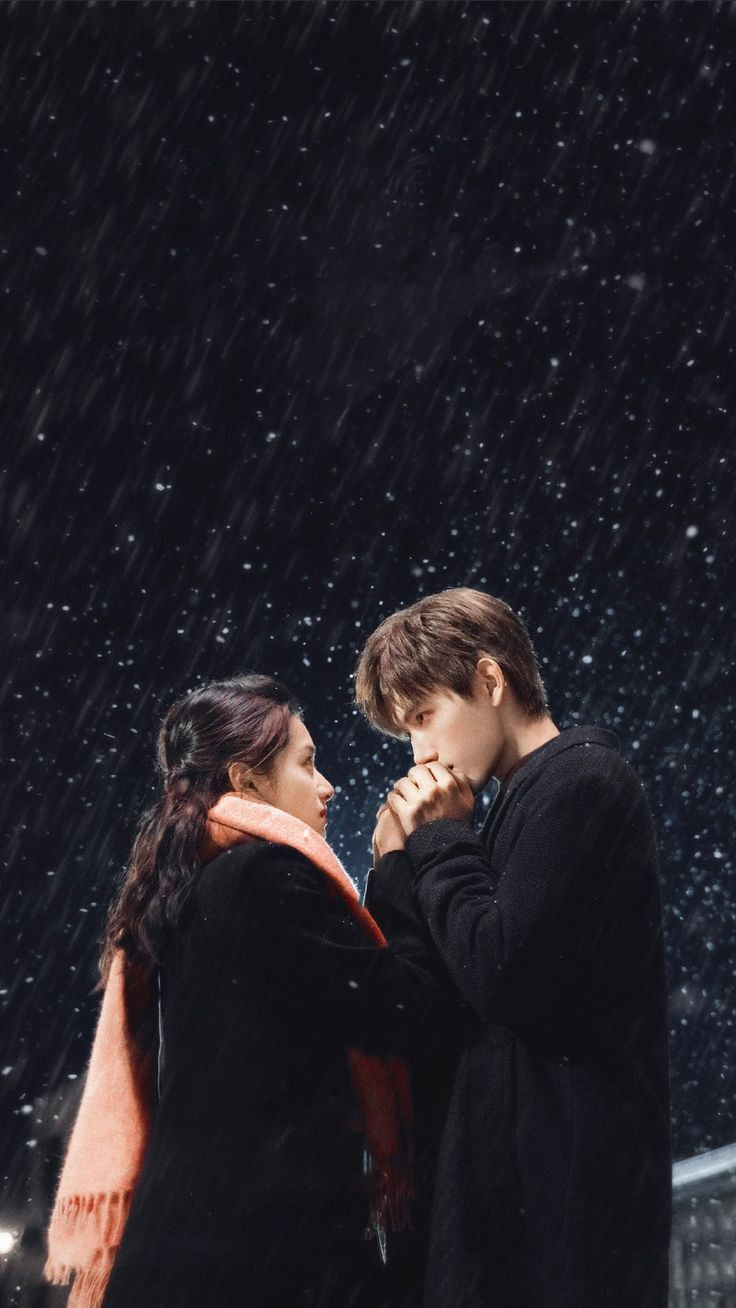
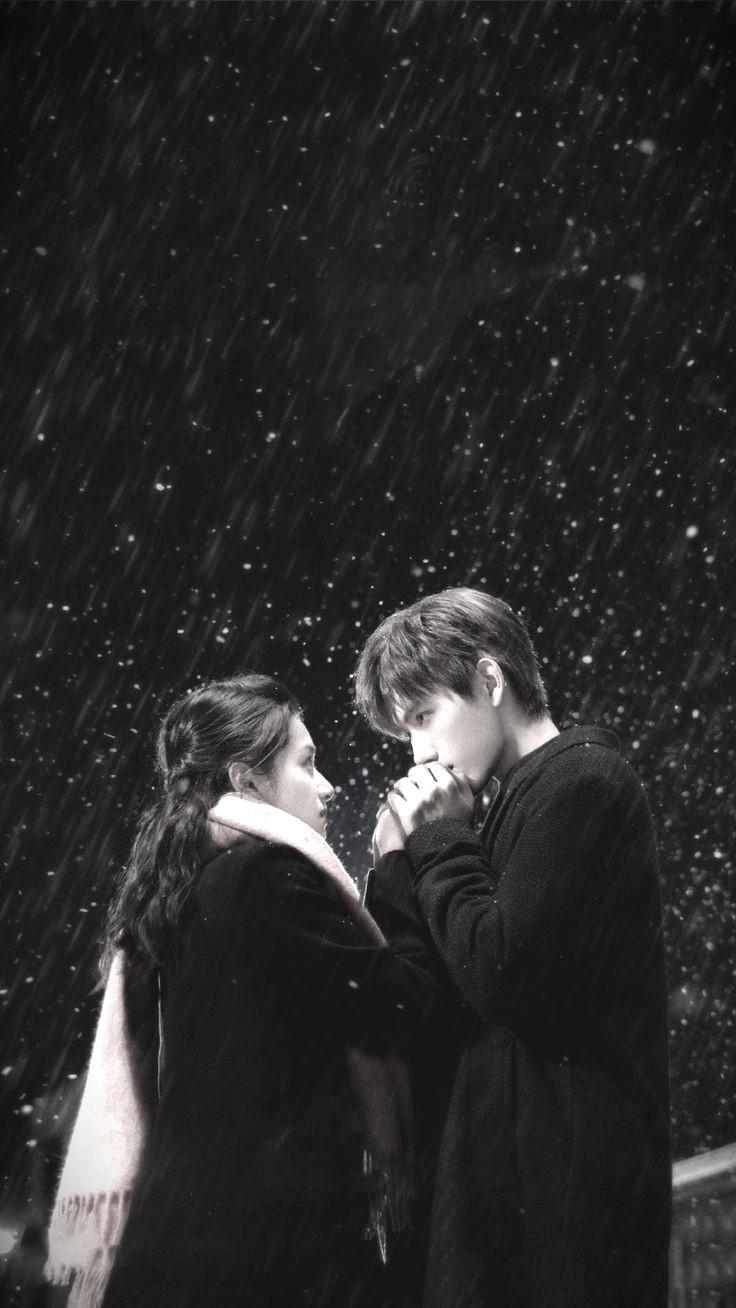
first commit

diff --git a/style.css b/style.css
@@ -26,23 +26,37 @@ section {
 .cover {
   position: relative;
   height: 100vh;
-  background: url("background-snow/abu-abu.jpg") center/cover no-repeat;
+  background: url("background-snow/snow-1.jpg") center/cover no-repeat;
   display: flex;
+  overflow: hidden;
   justify-content: center;
   align-items: center;
   text-align: center;
 }
 
-.cover::after {
+.cover::before {
   content: "";
   position: absolute;
   inset: 0;
-  background: rgba(0, 0, 0, 0.654); /* overlay gelap */
+  background: rgba(0, 0, 0, 0.38); /* redupin background */
+  z-index: 1;
+}
+
+.cover::after {
+  content: "";
+  position: absolute;
+  bottom: 0; /* bisa top juga, tapi ini nempel di bawah */
+  left: 0;
+  width: 100%;
+  height: 40%;
+  background: linear-gradient(to top, rgba(15, 14, 14, 0.97), transparent);
+  z-index: 2;
 }
 
 .cover-text {
+  color: #ffffff;
   position: relative;
-  z-index: 1;
+  z-index: 99;
 }
 
 .sub {
@@ -515,7 +529,7 @@ section {
 .penutup {
   position: relative;
   height: 100vh;
-  background: url("background-snow/abu-abu.jpg") center/cover no-repeat;
+  background: url("background-snow/snow-2.jpg") center/cover no-repeat;
   padding: 1rem;
   display: flex;
   flex-direction: column;
@@ -528,7 +542,7 @@ section {
   content: "";
   position: absolute;
   inset: 0;
-  background: rgba(0, 0, 0, 0.565); /* overlay gelap */
+  background: rgba(0, 0, 0, 0.38); /* overlay gelap */
 }
 
 .penutup-teks {
